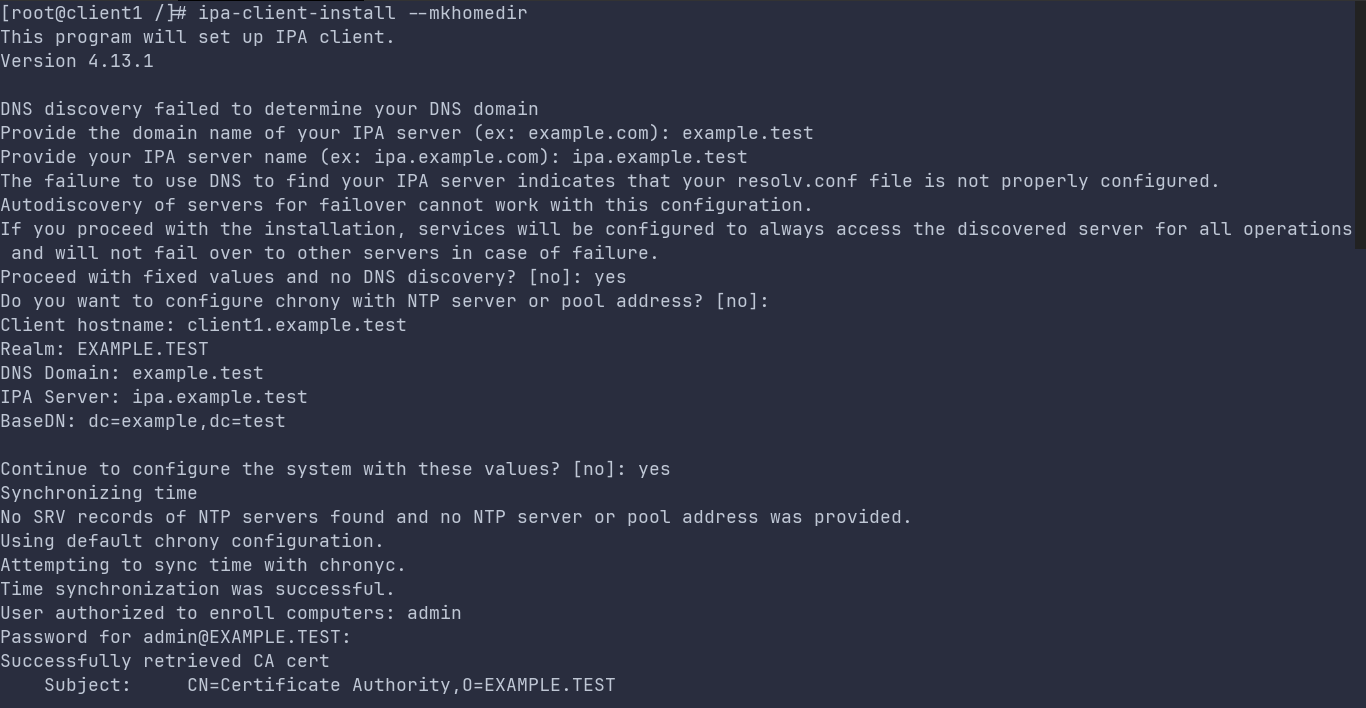
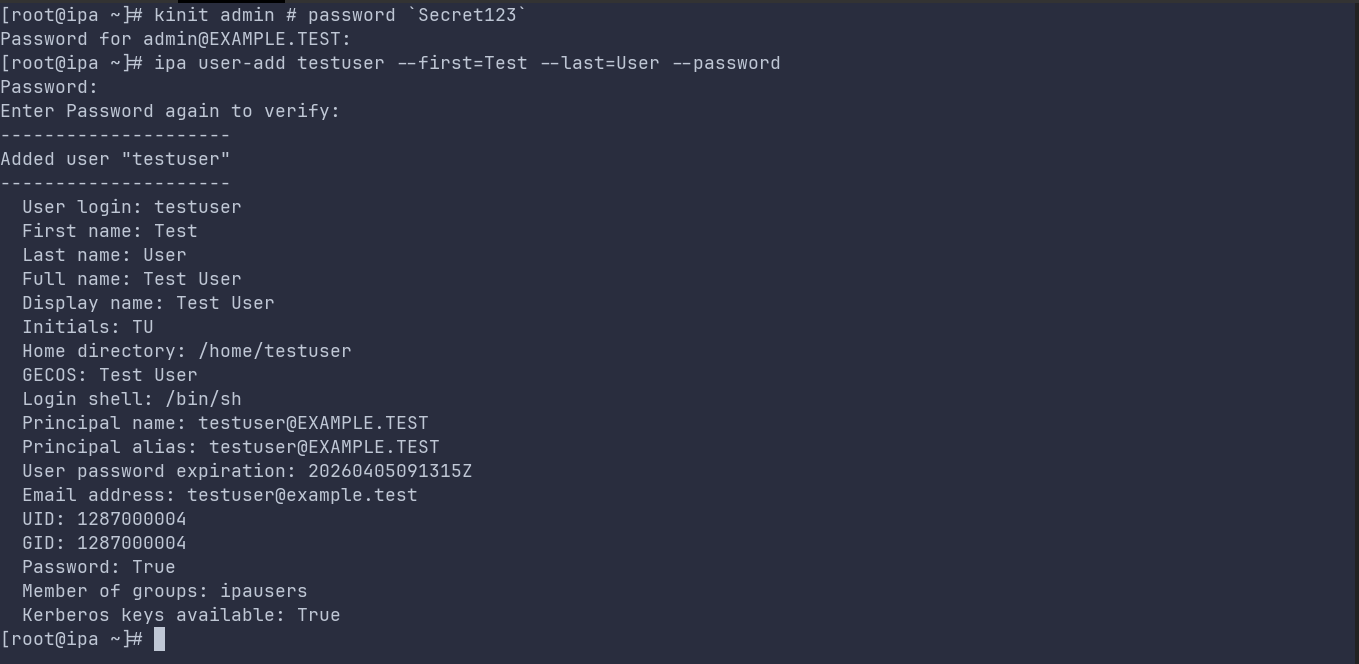
update

Changed region(s): [[0.0, 0.0, 1.0, 1.0], [0.4636, 0.6627, 0.4945, 0.6928]]

diff --git a/docs/source/domain_controller.rst b/docs/source/domain_controller.rst
@@ -29,7 +29,8 @@ Domain Controller
     kinit admin # password `Secret123`
     ipa user-add testuser --first=Test --last=User --password
 
-
+.. figure:: _static/domain_controller.png
+    
 Client
 ~~~~~~
 
@@ -50,9 +51,9 @@ Client
     
     su admin
     su testuser
-    
-.. figure:: _static/domain_controller.png
 
 .. figure:: _static/domain_controller_2.png
 
 .. figure:: _static/domain_controller_3.png
+
+.. figure:: _static/domain_controller_4.png
